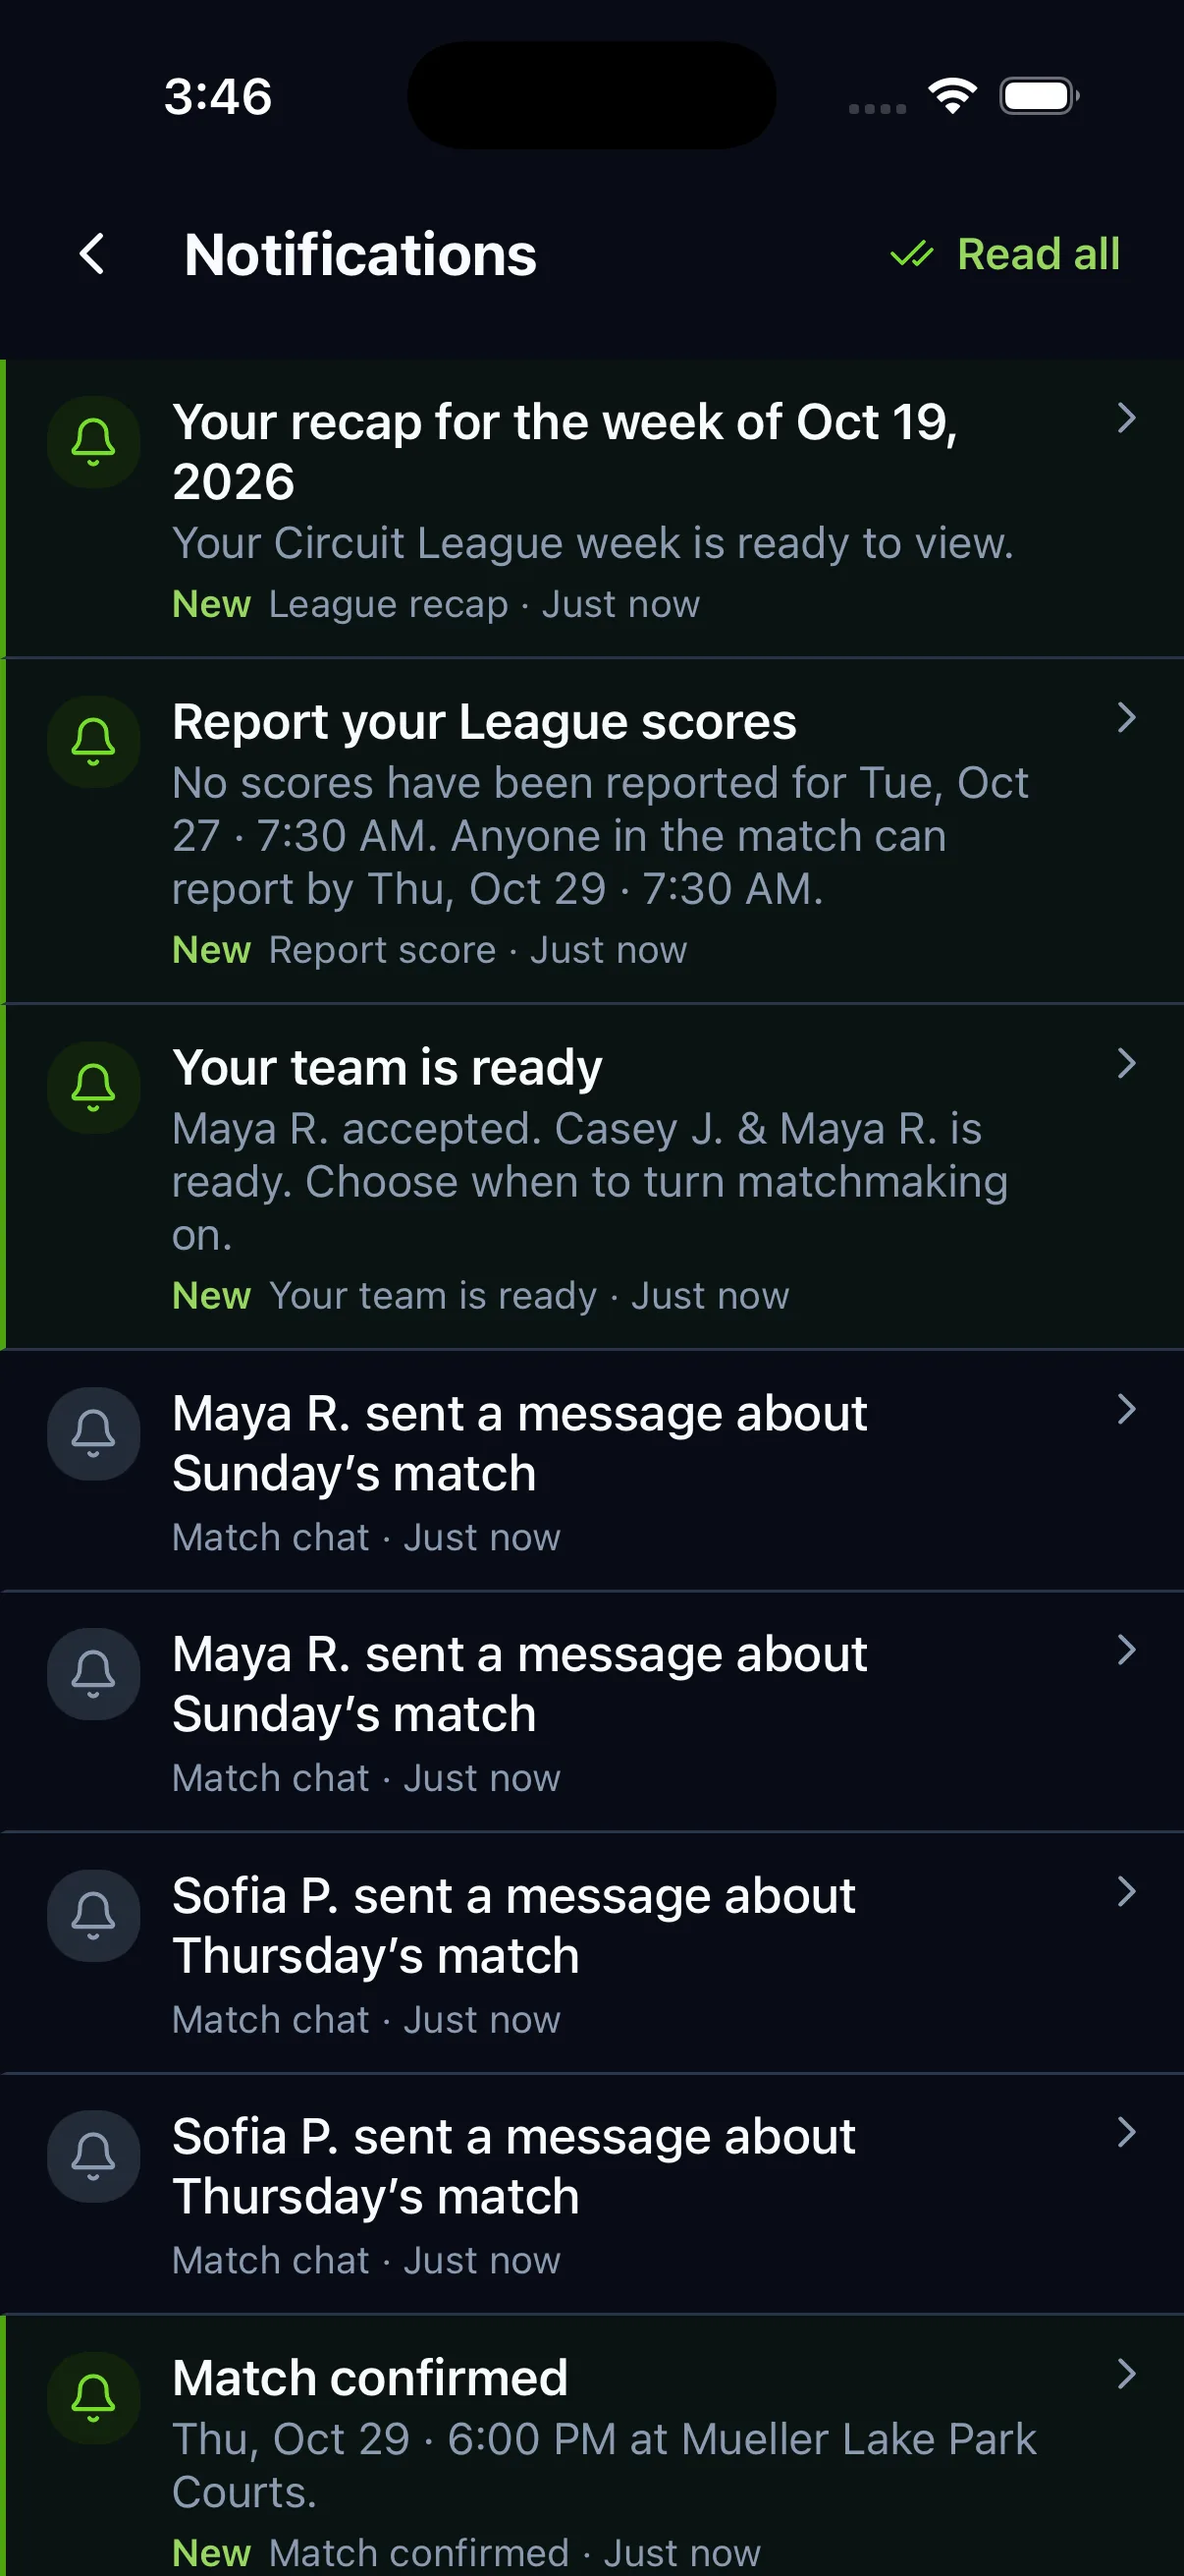
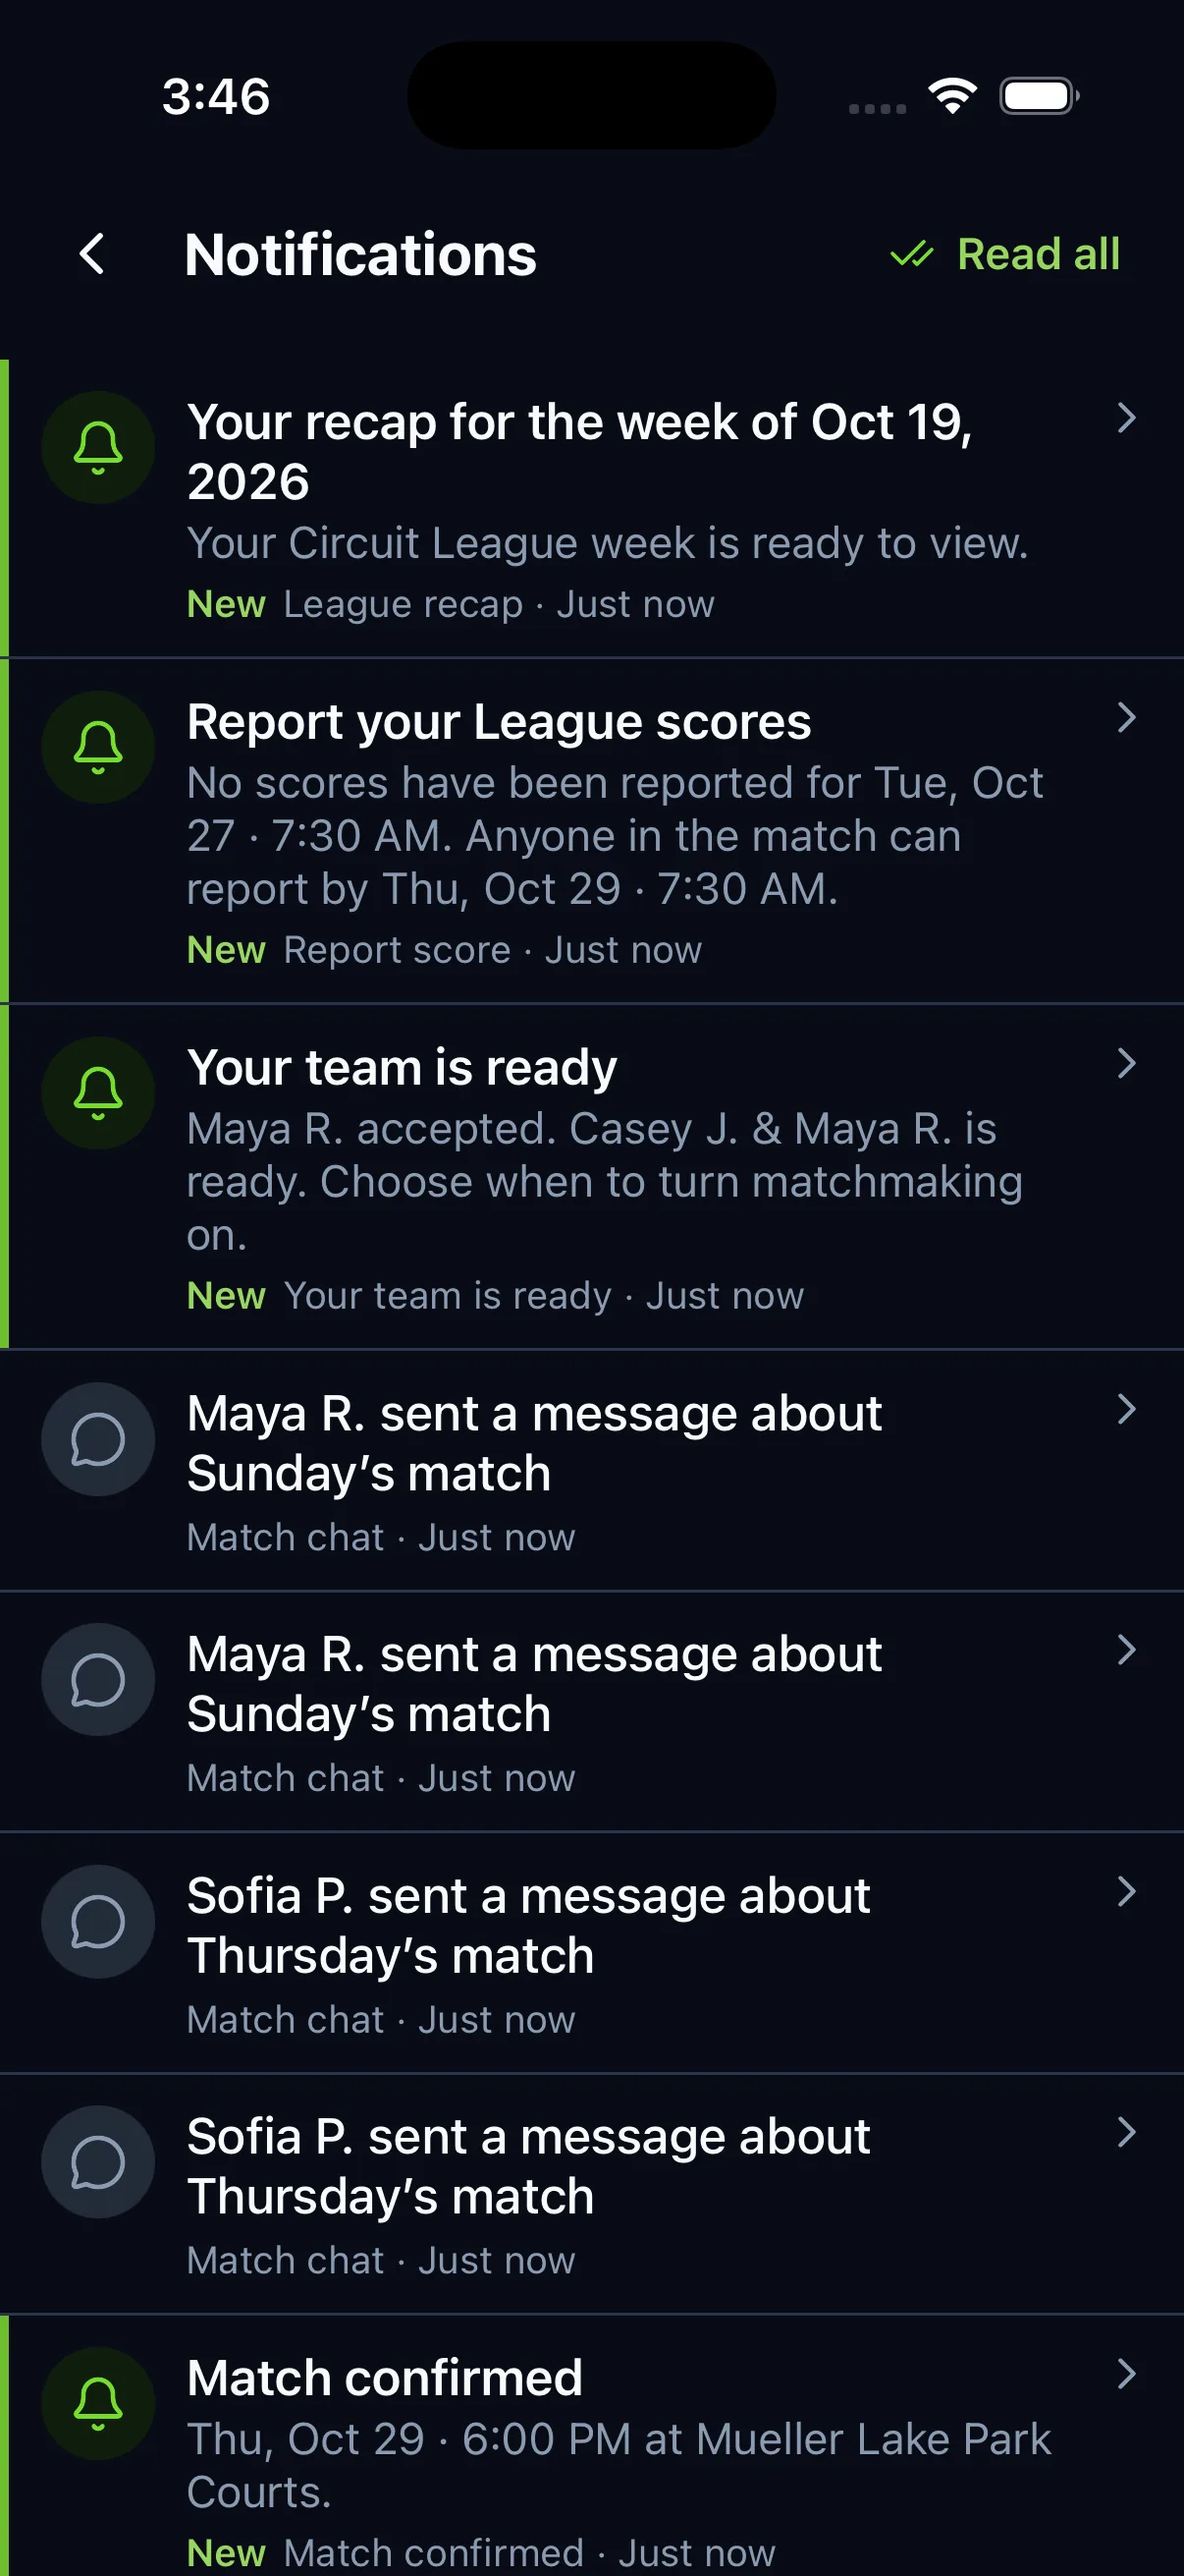
Retake the inbox screen with the new unread-row style
Screen 54 (Notifications > Inbox) now shows the app's new notification
rows: unread items have a green bar down the left edge, a round tinted
icon and the New label, and match-chat notices show a chat-bubble icon
instead of a bell. The eight notices, their order and which ones are
unread are unchanged from the previous shot.

The caption now mentions the green bar. IMAGE_VERSION is bumped to
20261030a so browsers fetch the new image, and current-captures.json
records the retake on app commit 54e8a91b5.

Checked at 360, 390 and 1280 wide: all 99 images load, nothing scrolls
sideways, and the viewer opens, steps and closes with no page errors.

diff --git a/index.html b/index.html
@@ -170,7 +170,7 @@ dialog#lb[open] { display: grid; grid-template-rows: auto minmax(0, 1fr) auto; }
 </dialog>
 
 <script>
-const IMAGE_VERSION = '20261029a';
+const IMAGE_VERSION = '20261030a';
 const CHAPTERS = [
   { id: 'discover', title: 'Discover the League', who: 'What a player sees on the League tab before joining.', person: 'Blake', shots: [
     ['01-intro-match', 'Always open', 'Circuit finds games near you, at your times, against players at your level. Joining is free, any day of the year.'],
@@ -303,7 +303,7 @@ const CHAPTERS = [
     ['53-home-conduct-task', 'Home reminder', 'While a report needs a response, one flat row leads the League home and opens the conduct record. Tuesday’s match also asks for a score.'],
   ]},
   { id: 'inbox', title: 'Notifications', who: 'League alerts land in the app inbox, newest first.', person: 'Casey', shots: [
-    ['54-inbox', 'Inbox', 'The week’s recap, a score reminder, team ready, chat messages and a confirmed match, newest first, with unread items marked New.'],
+    ['54-inbox', 'Inbox', 'The week’s recap, a score reminder, team ready, chat messages and a confirmed match, newest first. Unread items have a green bar on the left and are marked New.'],
   ]},
 ];
 
